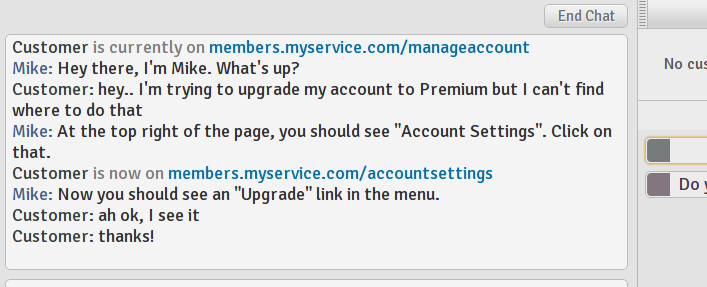
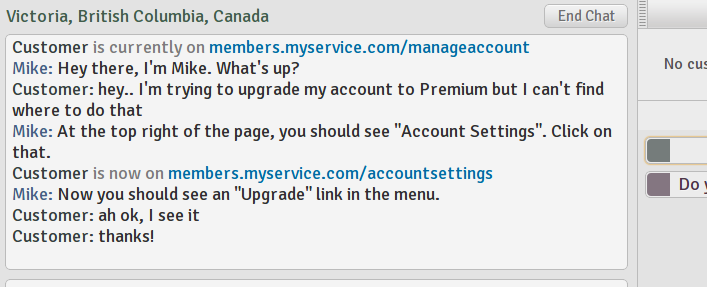
some changes to mainweb

Changed region(s): [[0.0, 0.0279, 0.4045, 0.0836]]

diff --git a/mainweb/main.html b/mainweb/main.html
@@ -49,13 +49,13 @@
 									<!-- BEGIN LilyLiveChat button code -->
 									<div class="lilylivechat_online" style="display:none;">
 										<h1>Can I see a demo?</h1>
-										<p>Absolutely! You can see LilyLiveChat from a customer perspective by chatting with <a href="http://www.lilylivechat.net" title="Live Chat" onclick="lilyLiveChat_launch(); return false;">LilyLiveChat Support</a>* or take 2 clicks to <a id="learnmore_createaccount1" href="javascript:void(0)">create your account</a> and experience being a LilyLiveChat site admin or operator.</p>
-										<p>* LilyLiveChat Support is here to answer your questions and play the role of an operator so that you can see what your customers will see. Have fun with it!</p>
+										<p>Absolutely! You can see LilyLiveChat from a customer perspective by chatting with <a href="http://www.lilylivechat.net" title="Live Chat" onclick="lilyLiveChat_launch(); return false;">LilyLiveChat Support</a> or <a id="learnmore_createaccount1" href="javascript:void(0)">one-click create your account</a> and experience being a LilyLiveChat site admin or operator.</p>
 									</div>
 									<div class="lilylivechat_offline" style="display:none;">
 									</div>
 									<!-- END LilyLiveChat button code -->
 									<h1>Pricing</h1>
+									<p>All prices are in Canadian dollars.</p>
 									<div class="pricingtable">
 										<div class="tablerow">
 											<div class="pt_featurecell">
@@ -89,6 +89,23 @@
 											</div>
 											<div class="pt_cellright">
 												<div class="pt_incell">$0</div>
+											</div>
+										</div>
+										<div id="facebookdiscount_row" class="tablerow" style="color: #6E1E82;">
+											<div class="pt_featurecell">
+												<div id="pricing_facebookdiscountlabel" class="pt_incell">Facebook Exclusive</div>
+											</div>
+											<div class="pt_cell">
+												<div class="pt_incell">15% off</div>
+											</div>
+											<div class="pt_cell">
+												<div class="pt_incell">12% off</div>
+											</div>
+											<div class="pt_cell">
+												<div class="pt_incell">8% off</div>
+											</div>
+											<div class="pt_cellright">
+												<div class="pt_incell"></div>
 											</div>
 										</div>
 										<div class="tablerow">
@@ -194,8 +211,33 @@
 											</div>
 										</div>
 									</div>
-									<h1>Okay, enough with the teasing! How do I sign up?</h1>
-									<p class="lastp">When you <a id="learnmore_createaccount2" href="javascript:void(0)">create your account</a>, you will be given the link to your personal Admin Panel. From there, you'll be able to add operators and connect your website to LilyLiveChat. Your Admin Panel is where it all begins!</p>
+									<div class="lilylivechat_online" style="display:none;">
+										<div class="fixedtable centeredblock" style="width:317px;">
+											<div class="tablerow">
+												<div class="cell">
+													<a id="learnmore_createaccount2" href="javascript:void(0)">
+														<img src="/images/tryit1.png" alt="Live Chat" style="display:block; margin:0px auto 0px auto;" />
+													</a>
+												</div>
+												<div class="cell">
+													<a href="http://www.lilylivechat.net" title="Live Chat" onclick="try { lilyLiveChat_launch(); } catch(e) { alert('LilyLiveChat main code not linked!'); } finally { return false; }">
+														<img src="//lilylivechat.net/chatbuttons/2_on.png" alt="Live Chat" style="display:block; margin:0px auto 0px auto;" />
+													</a>
+												</div>
+											</div>
+										</div>
+									</div>
+									<div class="lilylivechat_offline" style="display:none;">
+										<div class="fixedtable centeredblock" style="width:317px;">
+											<div class="tablerow">
+												<div class="cell">
+													<a id="learnmore_createaccount3" href="javascript:void(0)">
+														<img src="/images/tryit1.png" alt="Live Chat" style="display:block; margin:0px auto 0px auto;" />
+													</a>
+												</div>
+											</div>
+										</div>
+									</div>
 								</div>
 								<div id="tryitout_tab" class="tab">
 									<p>You are one click away from creating a LilyLiveChat account!</p>

diff --git a/mainweb/main.js b/mainweb/main.js
@@ -22,9 +22,34 @@ $(window).bind('load', function() {
 		}
 	}
 
+	function newAccountHandler() {
+		if (!accountCreated) {
+			$.ajax({
+				url: '/cmd/createsite',
+				dataType: 'json',
+				data: '',
+				timeout: 5000,
+				success: function(data, textStatus, jqXHR) {
+					var adminPanelUrl = 'http://lilylivechat.net/admin/' + data.siteId;
+					$('#newaccount_adminpanel').empty().append(
+						$('<a/>').attr('href', adminPanelUrl).attr('target', '_blank').text(adminPanelUrl)
+					);
+
+					accountCreated = true;
+				},
+				error: function(jqXHR, textStatus, errorThrown) {
+					$('#newaccount_tab').empty().append('We can\'t create your account right now. If you get this message after an hour, contact us and we\'ll see if we can help!');
+				}
+			});
+		}
+
+		changeTabTo(newAccountTab);
+	}
+
 	$('#menubutton_tryitout').click(tryItOutHandler);
-	$('#learnmore_createaccount1').click(tryItOutHandler);
-	$('#learnmore_createaccount2').click(tryItOutHandler);
+	$('#learnmore_createaccount1').click(newAccountHandler);
+	$('#learnmore_createaccount2').click(newAccountHandler);
+	$('#learnmore_createaccount3').click(newAccountHandler);
 
 	// pricing tooltip
 	var tooltip = $('<div/>').attr('id', 'tooltip');
@@ -59,11 +84,15 @@ $(window).bind('load', function() {
 		});
 	}
 
-	/*
-	 * processReferrer('http://www.google.ca/?q=furry+pink+leather+handbag', 2);
-	 * writeCustomerOnPageMessage(2, 'http://www.pricelesshandbags.ca/item/27801', 'currently');
-	 */
+	$('#facebookdiscount_row').hide();
 
+	switch (getUrlParameter('ref')) {
+		case "facebook":
+			$('#facebookdiscount_row').show();
+			break;
+	}
+
+	addTooltipTo($('#pricing_facebookdiscountlabel'), 'When subscribing, mention that you first heard about LilyLiveChat on Facebook and we\'ll apply this exclusive discount to your account. Offer expires June 19, 2012!', 322);
 	addTooltipTo($('#pricing_operatorallowancelabel'), 'Each plan allows adding up to this many operators. Operators are people who can answer chats from your customers.');
 	addTooltipTo($('#pricing_customermonitoringlabel'),
 		$('<div/>').append(
@@ -77,27 +106,7 @@ $(window).bind('load', function() {
 	addTooltipTo($('#pricing_assistedinstallationlabel'), 'No matter how technical you are, our developers will gladly walk you through setting up LilyLiveChat to integrate smoothly with your website. No one gets left behind!', 250);
 	addTooltipTo($('#pricing_exceptionalsupportlabel'), 'When you have questions, you deserve answers quickly. Our support crew consists of the people who made LilyLiveChat what it is today.', 390);
 
-	$('#tryitout_btn_newaccount').click(function() {
-		$.ajax({
-			url: '/cmd/createsite',
-			dataType: 'json',
-			data: '',
-			timeout: 5000,
-			success: function(data, textStatus, jqXHR) {
-				var adminPanelUrl = 'http://lilylivechat.net/admin/' + data.siteId;
-				$('#newaccount_adminpanel').empty().append(
-					$('<a/>').attr('href', adminPanelUrl).attr('target', '_blank').text(adminPanelUrl)
-				);
-
-				accountCreated = true;
-			},
-			error: function(jqXHR, textStatus, errorThrown) {
-				$('#newaccount_tab').empty().append('We can\'t create your account right now. If you get this message after an hour, contact us and we\'ll see if we can help!');
-			}
-		});
-
-		changeTabTo(newAccountTab);
-	});
+	$('#tryitout_btn_newaccount').click(newAccountHandler);
 
 	$(window).resize(onResize);
 
@@ -175,3 +184,10 @@ function changeTabTo(tab, onTabLoadCallback) {
 		}
 	}
 }
+
+function getUrlParameter(name, queryString) {
+	queryString = (queryString !== undefined) ? queryString : location.search;
+	var v = (RegExp(name + '=' + '(.*?)(&|$)').exec(queryString)||[,null])[1];
+	return (v !== null) ? decodeURIComponent(v) : v;
+}
+

diff --git a/chatweb/operator.css b/chatweb/operator.css
@@ -49,7 +49,7 @@
 }
 .chat_customerlocationlabel {
 	display:none;
-	color:#454545;
+	padding-left:1px;
 	font-size:18px;
 	line-height:24px;
 	overflow:hidden;

diff --git a/mainweb/main.css b/mainweb/main.css
@@ -33,6 +33,9 @@ input {
 	table-layout:fixed;
 	width:100%;
 }
+.centeredblock {
+	margin:0px auto 0px auto;
+}
 .tablerow {
 	display:table-row;
 }
